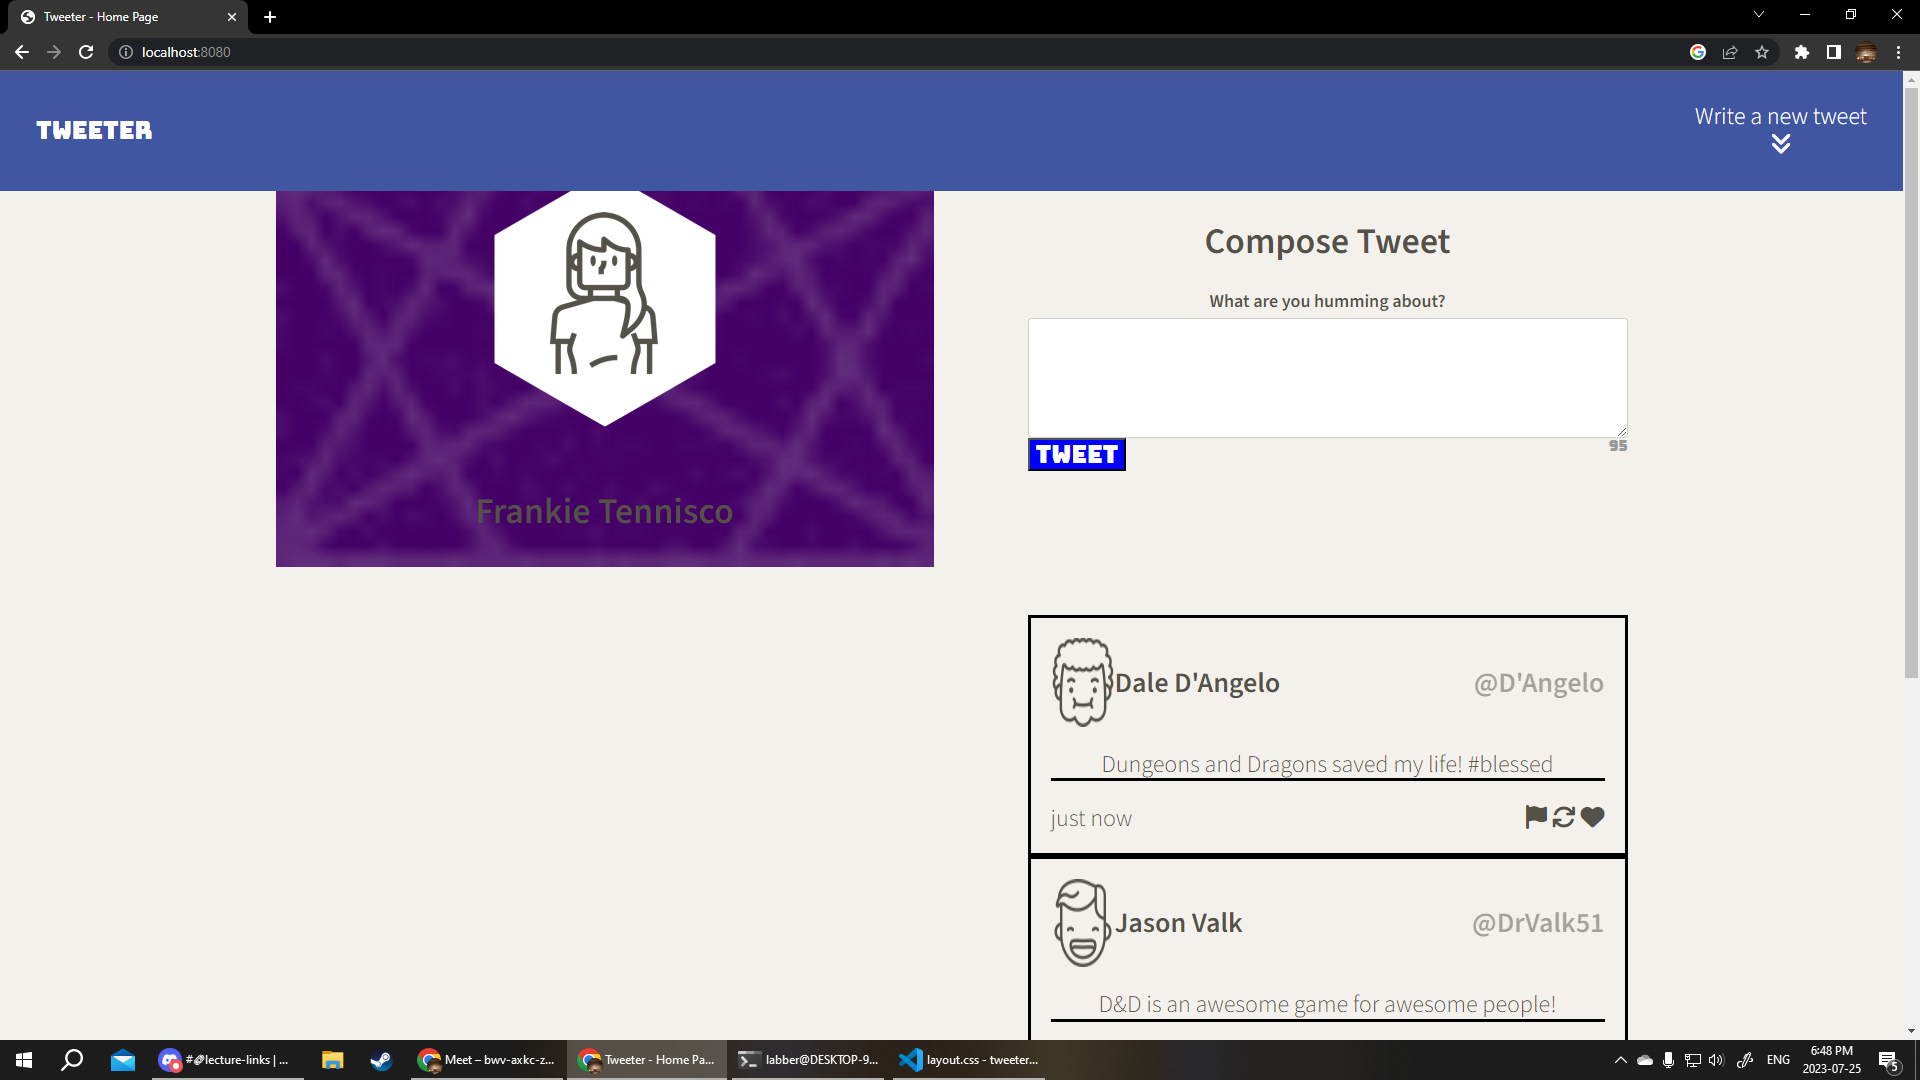
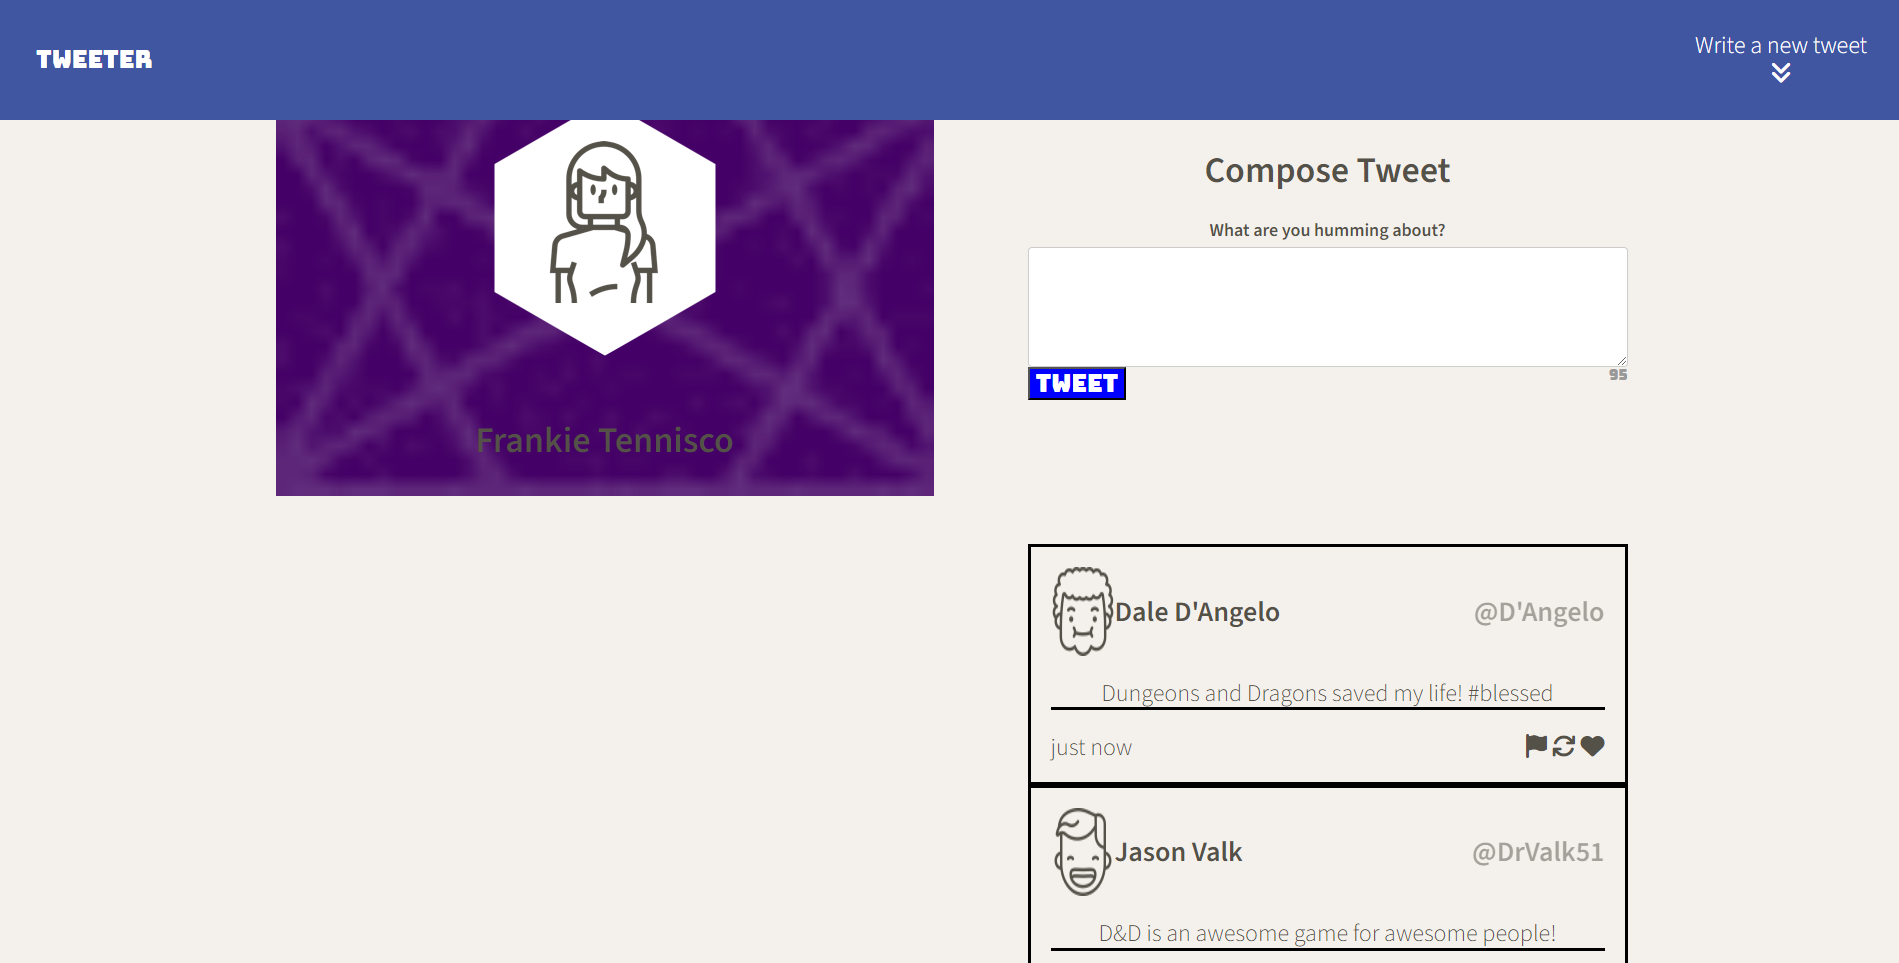
Edit code to fix CSS issues.

diff --git a/public/styles/tweet-container.css b/public/styles/tweet-container.css
@@ -8,6 +8,7 @@ article.tweet {
   border: solid black;
   padding: 20px;
   transition: box-shadow 0.3s;
+  margin-bottom: 20px;
 }
 
 article.tweet:hover {
@@ -25,6 +26,7 @@ article.tweet:hover {
 
 .tweet-text {
   border-bottom: 3px solid black;
+  word-break: break-all;
 }
 
 .tweet-footer i:hover {
@@ -35,10 +37,14 @@ article.tweet:hover {
   opacity: 0.5;
 }
 
+.tweet-container {
+  margin-top: 20px;
+}
+
 @media only screen and (min-width: 1024px) {
   .tweet-container {
      max-width: 600px;
-     margin: 6em auto 0;
+     margin: 40px auto 0;
   }
   .section {
     width: 100%;

diff --git a/public/styles/header.css b/public/styles/header.css
@@ -11,24 +11,23 @@ header.tweeter-head {
 }
 
 header.tweeter-head .avatar {
-  width: 150px;
-  height: 150px;
   border-radius: 50%;
-  background-color: blanchedalmond;
+  margin-top: 100px;
 }
 
-header.tweeter-head .name {
+header.tweeter-head .name h2 {
   font-family: 'Source Sans 3', sans-serif;
   font-size: 24px;
   font-weight: bold;
-  margin-top: 16px;
+  margin-top: 0px;
 }
+
 
 @media only screen and (min-width: 1024px) {
   .tweeter-head {
     float: left;
     width: 65%;
     margin-right: 1.5em;
-    margin-top: 4em;
+    margin-top: 200px;
   }
 }

diff --git a/public/styles/layout.css b/public/styles/layout.css
@@ -33,9 +33,7 @@ body {
 main {
   width: 90%;
   margin: 0 auto;
-  text-align: center;
   background-color: #f4f1ec;
-  padding-top: 120px;
 }
 
 @media only screen and (min-width: 1024px) {
@@ -46,6 +44,7 @@ main {
   }
   main {
     width: 100%;
+    padding-top: 120px;
   }
   .pageContainer {
     display: flex;
@@ -67,6 +66,7 @@ main {
   font-family: 'Bungee', cursive;
   background-color: blue;
   color: white;
+  margin-top: 20px;
 }
 
 .submit .counter {

diff --git a/public/scripts/composer-char-counter.js b/public/scripts/composer-char-counter.js
@@ -2,7 +2,6 @@ $(document).ready(function() {
   $("#tweet-text").on("input", function(event){
     let tweetLength = this.value.length;
     let charactersLeft = 140 - tweetLength;
-    console.log(charactersLeft);
     
     // Update the counter on the page
     let counterElement = $(this).closest(".new-tweet").find(".counter");

diff --git a/public/index.html b/public/index.html
@@ -52,11 +52,11 @@
   </nav>
 <div class="pageContainer">
   <header class="tweeter-head">
-    <div>
+    <div class="avatar">
       <img src="/images/profile-hex.png">
     </div>
     <br>
-    <div>
+    <div class="name">
       <h2>Frankie Tennisco</h2>
     </div>
   </header>
